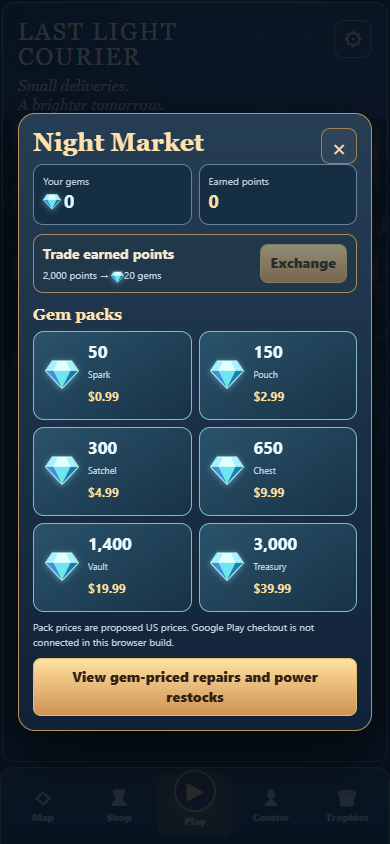
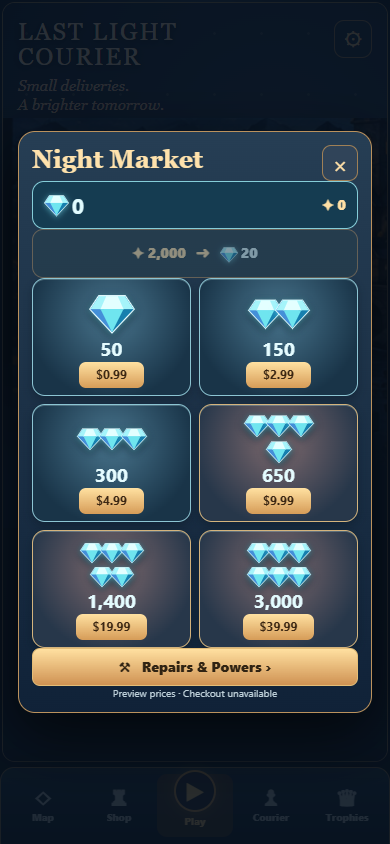
Make gem shop visual and compact

diff --git a/game/shell.css b/game/shell.css
@@ -308,3 +308,24 @@ body.testerBuild .storybookWordmark::after{content:'TESTER';display:block;margin
 .packPreview .gemIcon{width:54px;height:54px}
 .packPreview strong{font-size:22px;color:#dffcff}
 .packPreview span{font-size:12px;color:#ffe0a6}
+.gemShopPanel{width:min(100%,390px);padding:13px 13px 11px}
+.gemShopPanel .integratedPanelBody{display:grid;gap:9px}
+.gemShopPanel .shopWallet{display:flex;align-items:center;justify-content:space-between;gap:9px;padding:8px 11px;border:1px solid #85cdd8;border-radius:12px;background:#153c51}
+.gemShopPanel .shopWallet>.gemAmount{font-size:21px;color:#e1fcff}
+.gemShopPanel .shopWallet .gemIcon{width:25px;height:25px}
+.gemShopPanel .shopPoints{color:#ffe0a5;font-size:14px;font-weight:900;white-space:nowrap}
+.gemShopPanel .shopExchange{display:flex;width:100%;min-height:49px;margin:0;padding:7px 11px;justify-content:center;gap:10px;border:1px solid #aa8a60;border-radius:11px;background:#273f4c;color:#ffe3ad;font-size:14px;font-weight:900}
+.gemShopPanel .shopExchange .gemAmount{color:#dffcff}
+.gemShopPanel .shopExchange:disabled{opacity:.5}
+.gemShopPanel .gemPacks{gap:8px}
+.gemShopPanel .gemPack{display:flex;flex-direction:column;align-items:center;justify-content:center;min-height:118px;padding:7px;border:1px solid #8dc5d3;border-radius:13px;background:radial-gradient(circle at 50% 32%,#48748c,#193448 75%);text-align:center;box-shadow:inset 0 1px #c0edee44,0 4px 10px #07121b55}
+.gemShopPanel .gemPack3,.gemShopPanel .gemPack4,.gemShopPanel .gemPack5{background:radial-gradient(circle at 50% 32%,#7e696d,#27374a 75%);border-color:#d4b47d}
+.gemShopPanel .gemPack .packArt{display:flex;flex-wrap:wrap;align-content:center;align-items:center;justify-content:center;width:79px;height:52px;gap:0;filter:drop-shadow(0 2px 4px #071b29)}
+.gemShopPanel .gemPack .packArt .gemIcon{width:24px;height:24px;margin:0 -2px}
+.gemShopPanel .gemPack0 .packArt .gemIcon{width:46px;height:46px}
+.gemShopPanel .gemPack1 .packArt .gemIcon{width:35px;height:35px;margin:0 -4px}
+.gemShopPanel .gemPack2 .packArt .gemIcon,.gemShopPanel .gemPack3 .packArt .gemIcon{width:26px;height:26px}
+.gemShopPanel .gemPack strong{font-size:19px;color:#e5fcff;line-height:1.1}
+.gemShopPanel .gemPack b{margin-top:3px;padding:4px 17px;border-radius:7px;background:linear-gradient(#ffe1a1,#d69c58);color:#3c2713;font-size:12px}
+.gemShopPanel .shopTools{min-height:38px}
+.gemShopPanel .shopNote{margin:0;text-align:center;font-size:10px}

diff --git a/game/shell.js b/game/shell.js
@@ -131,7 +131,7 @@
   };
   const openShop = () => {
     const s = getSave();
-    panel('Night Market', `<div class="shopBalances"><div><small>Your gems</small><strong class="gemAmount">${gemAmount(s.gems)}</strong></div><div><small>Earned points</small><strong>${Number(s.wallet||0).toLocaleString()}</strong></div></div><div class="shopExchange"><div><strong>Trade earned points</strong><small>2,000 points → ${gemAmount(20)} gems</small></div><button type="button" data-exchange-gems ${s.wallet<2000?'disabled':''}>Exchange</button></div><h3>Gem packs</h3><div class="gemPacks">${gems.packs.map(pack=>`<button type="button" class="gemPack" data-gem-pack="${pack.id}" aria-label="Preview ${pack.amount} gems for ${pack.usd}"><span class="packGem">${gems.icon}</span><strong>${pack.amount.toLocaleString()}</strong><small>${pack.name}</small><b>${pack.usd}</b></button>`).join('')}</div><p class="shopNote">Pack prices are proposed US prices. Google Play checkout is not connected in this browser build.</p><button type="button" class="shopTools" data-action="repairs">View gem-priced repairs and power restocks</button>`);
+    panel('Night Market', `<div class="shopWallet"><strong class="gemAmount" aria-label="${s.gems} gems">${gemAmount(s.gems)}</strong><span class="shopPoints" aria-label="${s.wallet} earned points">✦ ${Number(s.wallet||0).toLocaleString()}</span></div><button type="button" class="shopExchange" data-exchange-gems ${s.wallet<2000?'disabled':''} aria-label="Exchange 2,000 points for 20 gems"><span>✦ 2,000</span><span aria-hidden="true">➜</span><strong class="gemAmount">${gemAmount(20)}</strong></button><div class="gemPacks">${gems.packs.map((pack,i)=>`<button type="button" class="gemPack gemPack${i}" data-gem-pack="${pack.id}" aria-label="Preview ${pack.amount} gems for ${pack.usd}"><span class="packArt" aria-hidden="true">${gems.icon.repeat(i+1)}</span><strong>${pack.amount.toLocaleString()}</strong><b>${pack.usd}</b></button>`).join('')}</div><button type="button" class="shopTools" data-action="repairs" aria-label="Open repairs and powers">⚒ &nbsp; Repairs &amp; Powers <span aria-hidden="true">›</span></button><p class="shopNote">Preview prices · Checkout unavailable</p>`);
     overlay.querySelector('.integratedPanel').classList.add('gemShopPanel');
   };
   const openCourier = () => {
